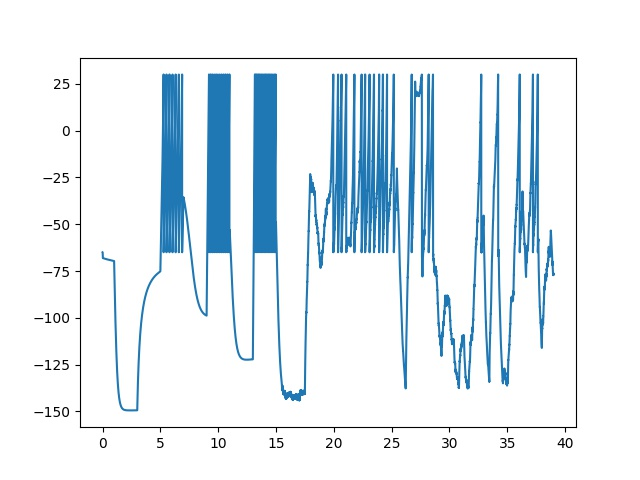
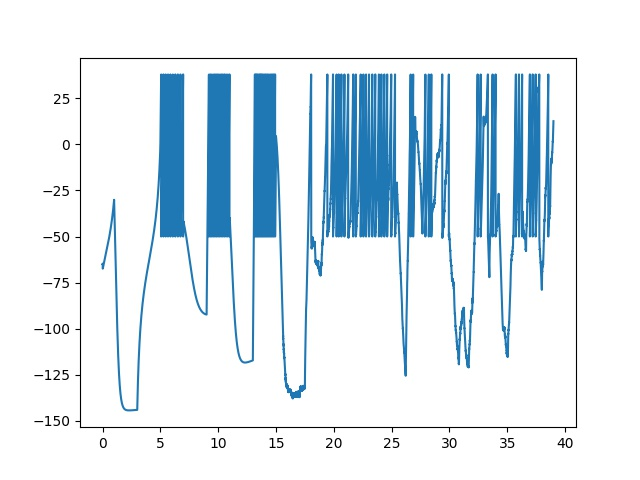
Completed plotting functions

diff --git a/models/iz_neuron.py b/models/iz_neuron.py
@@ -15,14 +15,18 @@ import matplotlib.pyplot as plt
 # CONSTANTS #
 #############
 TMAX = 39.0
+#TMAX = None
 a = 0.02
 b = 0.2
-c = -65
-d = 8
+c = -50
+d = 2
+v_spike = 30
+
+# TODO: Implement peak finding to set correct value v_spike.
 
 class IZModel(sciunit.Model, ProducesSpikes):
     """
-    Model of a Izhikevich neuron. Extends sciunit.Model and ProducesSpikes.
+    Model of a Izhikevich neuron. Extends sciunit.Model and interfaces neuronunit.capabilities.ProducesSpikes.
     """
 
     def __init__(self, a, b, c, d, v_spike=30.0, **kwargs):
@@ -60,6 +64,9 @@ class IZModel(sciunit.Model, ProducesSpikes):
             _v - the proceeding voltage
             _u - the proceeding recovery
             """
+        # The constants 0.04, 5, 140 are the one fits all parameters from Simple Model of Spiking Neurons E. Izhikevich.
+        # These constants are justified when simulating large networks of neurons.
+        # TODO: Parameterise the four constants 0.04, 5, 140.
         _v = v + self.dt * (0.04 * v ** 2 + 5 * v + 140 - u + I)
         _u = u + self.dt * (self.a * (self.b * v - u))
         return _v, _u
@@ -88,19 +95,22 @@ class IZModel(sciunit.Model, ProducesSpikes):
             v_iteration = self.v[t - 1]
             u_iteration = self.u[t - 1]
 
-            if v_iteration > self.v_spike:
-                v_iteration = self.c
-                u_iteration = u_iteration + self.d
-
             v_iteration_next, u_iteration_next = self.euler_forward(u_iteration, v_iteration, i_ext)
 
+            if v_iteration_next > self.v_spike:
+                v_iteration_next = self.c
+                u_iteration_next = u_iteration_next + self.d
             self.v[t] = v_iteration_next
             self.u[t] = u_iteration_next
 
         #### Temporary graphing code ###
-        x = [_x * self.dt for _x in range(0, len(self.v))]
-        plt.plot(x, self.v)
-        plt.savefig('predicted_voltage.jpg')
+        # x = [_x * self.dt for _x in range(0, len(self.v))]
+        # plt.plot(x, self.v)
+        # plt.savefig('predicted_voltage.jpg')
+        # plt.clf()
+        # plt.plot(x, self.u)
+        # plt.savefig('predicted_recovery_u.jpg')
+        # raise RuntimeError
 
 
     def get_spike_trains(self, current=None):
@@ -113,20 +123,16 @@ class IZModel(sciunit.Model, ProducesSpikes):
 
         # For compability with sciunit as many spike trains are generated as there exists ground truth observations
         spike_trains = []
-        for trial in range(13):
-            if current:
-                self.set_external_current(current)
-            self.simulate(T_max=TMAX)
-            voltage_trial = self.v
-            vm_trial = AnalogSignal(voltage_trial, self.dt)
-            spike_train = vm_trial.threshold_detection(0)
-            spike_trains.append(spike_train)
-            if len(spike_trains) >= 13:  # Don't use all the spike trains.
-                break
+        if current:
+            self.set_external_current(current)
+        self.simulate(T_max=TMAX)
+        voltage_trial = self.v
+        vm_trial = AnalogSignal(voltage_trial, self.dt)
+        spike_train = vm_trial.threshold_detection(0)
+        spike_trains = [spike_train for _ in range(0,3)]
         return spike_trains
-
 
 
 # Instantiate a model.
 
-iz_model = IZModel(a,b,c,d, name='Izhikevich')
+iz_model = IZModel(a, b, c, d, v_spike, name='Izhikevich')

diff --git a/reproduce_Izhikevich_paper.py b/reproduce_Izhikevich_paper.py
@@ -1,0 +1,64 @@
+import numpy as np
+import matplotlib.pyplot as plt
+from NeuroTools.signals import AnalogSignal
+
+##########
+# SCRIPT #
+##########
+# Reproduces some results from Simple Model of Spiking Neurons E. Izhikevich
+# with the aim to verify the calculated model.
+from QSNMC.models import iz
+
+IZ_model = iz
+
+#### Model Input
+dt = 0.5
+input_onset = 300             # Onset of input
+input_amp = 5                 # AMPLITUDE OF INPUT
+
+
+time = np.arange(0,1000.1,dt)  # time period 1000ms (1s)
+
+def Input(input_onset,input_amp):
+    I=np.zeros((len(time)))     # CURRENT (INPUT)
+
+    for k in range (0,len(time)):
+        if time[k] >input_onset:
+            I[k]=input_amp # Input change
+    return I
+
+I = Input(input_onset, input_amp)
+plt.plot(time,I)
+plt.savefig('input_current_izen.jpg')
+
+current = AnalogSignal(I, dt)
+IZ_model.set_external_current(current)
+IZ_model.simulate()
+
+
+def plot_input_output(time, v, I):
+    # PLOTTING
+    fig, ax1 = plt.subplots(figsize=(12, 3))
+    ax1.plot(time, v, 'b-', label='Output')
+    ax1.set_xlabel('time (ms)')
+    # Make the y-axis label, ticks and tick labels match the line color.
+    # Plotting out put
+    ax1.set_ylabel('Output mV', color='b')
+    ax1.tick_params('y', colors='b')
+    ax1.set_ylim(-95, 40)
+    ax2 = ax1.twinx()
+    # Plotting input on a different axis
+    ax2.plot(time, I, 'r', label='Input')
+    ax2.set_ylim(0, 2000 * 20)
+    ax2.set_ylabel('Input (mV)', color='r')
+    ax2.tick_params('y', colors='r')
+
+    fig.tight_layout()
+    ax1.legend(loc=1)
+    ax2.legend(loc=3)
+    plt.savefig('output_voltage_izen.jpg')
+
+
+plot_input_output(time, IZ_model.v, I)
+
+print("s")

diff --git a/run_a_model.py b/run_a_model.py
@@ -1,3 +1,9 @@
+###########
+# IMPORTS #
+###########
+# 3rd party
+import matplotlib.pyplot as plt
+
 from QSNMC.tests import tests
 from QSNMC.models import models
 print(tests)
@@ -10,3 +16,38 @@ for model in models:
         score = test.judge(model,deep_error=True)
         score.summarize()
         print("\r")
+model = models[0]
+
+v = model.v
+u = model.u
+I = model.i_ext
+dt = model.dt
+
+time = [dt*x for x in range(0,len(I))]
+
+def plot_input_output(time, v, I):
+    """ beautification of results.
+    """
+    # Initialize
+    fig, ax1 = plt.subplots(figsize=(12, 3))
+    ax1.plot(time, v, 'tab:blue', label='Output')
+    ax1.set_xlabel('time (ms)')
+    fig.suptitle("The score achieved is " + score.raw, fontsize=8)
+
+    # Plot output
+    ax1.set_ylabel('Output mV', color='tab:blue', alpha = 0.4)
+    ax1.tick_params('y', colors='tab:blue')
+    ax1.set_ylim(-150, 55)
+    ax2 = ax1.twinx()
+
+    # Plot input current
+    ax2.plot(time, I, 'tab:red', label='Input', alpha = 0.4)
+    ax2.set_ylim(-2500, 2500)
+    ax2.set_ylabel('Input (mV)', color='tab:red')
+    ax2.tick_params('y', colors='tab:red')
+
+    fig.tight_layout()
+    ax1.legend(loc=1)
+    ax2.legend(loc=3)
+    plt.savefig('summary_of_model_results.jpg')
+plot_input_output(time, v, I)

diff --git a/data_exporation.py b/data_exporation.py
@@ -7,16 +7,18 @@ import matplotlib.pyplot as plt
 dt = 1e-4 # 10 kHz sampling.
 
 current_array, voltage_array = capabilities.load_training_data(pickled=True)
+x = [_x*dt for _x in range(0,len(current_array))]
+plt.plot(x,current_array)
+plt.savefig('input_current.jpg')
 
 spike_trains = []
 
 for col in range(voltage_array.shape[1]):
     voltage_trial = voltage_array[:, col]
     vm_trial = AnalogSignal(voltage_trial, dt)
-    x = [_x*dt for _x in range(0,len(voltage_trial))]
-    plt.plot(x,voltage_trial)
-    plt.savefig('ground_truth_1.jpg')
-    break
+    # x = [_x*dt for _x in range(0,len(voltage_trial))]
+    # plt.plot(x,voltage_trial)
+    # plt.savefig('ground_truth_13.jpg')
     spike_train = vm_trial.threshold_detection(0)
     spike_trains.append(spike_train)
 

diff --git a/tests/year2009_a.py b/tests/year2009_a.py
@@ -106,7 +106,9 @@ def get_observation(phase):
     else:
         raise Exception("Phase must be 'training' or 'testing'")
     
-    current_array,voltage_array = load_data() 
+    current_array,voltage_array = load_data()
+    # Dataset specific, trunkade current_array to the length of the voltage_array.
+    current_array = current_array[0:voltage_array.shape[0]]
     spike_trains = []
     
     for col in range(voltage_array.shape[1]):
